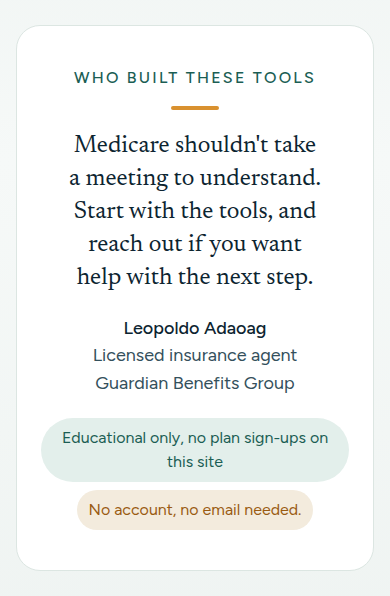
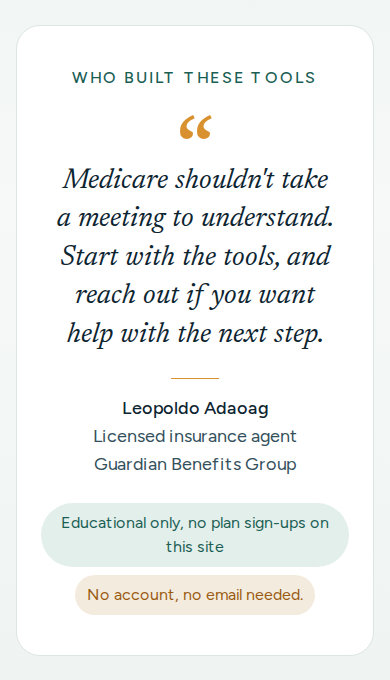
Style the homepage "Who built these tools" line as a pull quote
Large amber quote mark, italic Newsreader at a larger size, and the byline
as the figure's attribution under a short amber rule.

Claude-Session: https://claude.ai/code/session_01QMPQJ3r66GFAoq1ywpokyF

Changed region(s): [[0.1231, 0.0906, 0.8615, 0.5134], [0.0923, 0.5436, 0.8923, 0.906]]

diff --git a/src/app/page.tsx b/src/app/page.tsx
@@ -109,28 +109,38 @@ export default function HomePage() {
             <p className="text-sm font-medium tracking-[0.14em] text-[var(--brand-teal-deep)] uppercase">
               Who built these tools
             </p>
-            <span
-              aria-hidden
-              className="mx-auto mt-4 block h-1 w-12 rounded-full bg-[var(--brand-amber)]"
-            />
-            <blockquote className="mt-5 font-[family-name:var(--font-display)] text-2xl leading-snug text-balance text-[var(--brand-ink)] sm:text-3xl">
-              Medicare shouldn&apos;t take a meeting to understand. Start with the tools, and reach
-              out if you want help with the next step.
-            </blockquote>
-            <p className="mt-5 text-base text-[var(--brand-ink-soft)]">
-              <span className="block font-medium text-[var(--brand-ink)] sm:inline">
-                Leopoldo Adaoag
+            <figure className="mt-6">
+              <span
+                aria-hidden
+                className="block h-12 font-[family-name:var(--font-display)] text-[6rem] leading-[0.9] text-[var(--brand-amber)] select-none sm:h-14 sm:text-[7rem]"
+              >
+                &ldquo;
               </span>
-              <span aria-hidden className="hidden sm:inline">
-                {" · "}
-              </span>
-              <span className="block sm:inline">Licensed insurance agent</span>
-              <span aria-hidden className="hidden sm:inline">
-                {" · "}
-              </span>
-              <span className="block sm:inline">Guardian Benefits Group</span>
-            </p>
-            <ul className="mt-5 flex flex-wrap justify-center gap-2">
+              <blockquote className="font-[family-name:var(--font-display)] text-[1.75rem] leading-snug text-balance text-[var(--brand-ink)] italic sm:text-[2.5rem] sm:leading-[1.2]">
+                <p>
+                  Medicare shouldn&apos;t take a meeting to understand. Start with the tools, and
+                  reach out if you want help with the next step.
+                </p>
+              </blockquote>
+              <figcaption className="mt-6 text-base text-[var(--brand-ink-soft)]">
+                <span
+                  aria-hidden
+                  className="mx-auto mb-4 block h-px w-12 bg-[var(--brand-amber)]"
+                />
+                <span className="block font-medium text-[var(--brand-ink)] sm:inline">
+                  Leopoldo Adaoag
+                </span>
+                <span aria-hidden className="hidden sm:inline">
+                  {" · "}
+                </span>
+                <span className="block sm:inline">Licensed insurance agent</span>
+                <span aria-hidden className="hidden sm:inline">
+                  {" · "}
+                </span>
+                <span className="block sm:inline">Guardian Benefits Group</span>
+              </figcaption>
+            </figure>
+            <ul className="mt-6 flex flex-wrap justify-center gap-2">
               <li className="rounded-full bg-[var(--brand-teal-tint)] px-3 py-2 text-sm text-[var(--brand-teal-deep)]">
                 Educational only, no plan sign-ups on this site
               </li>
